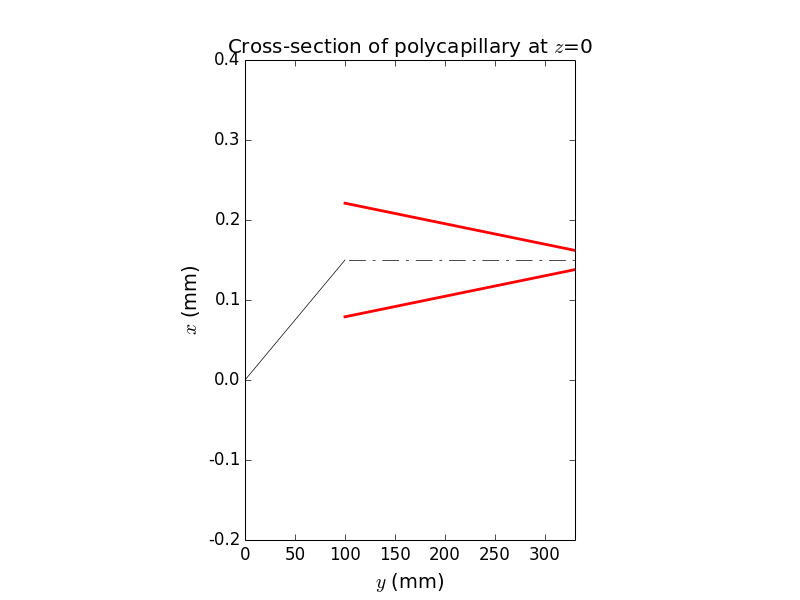
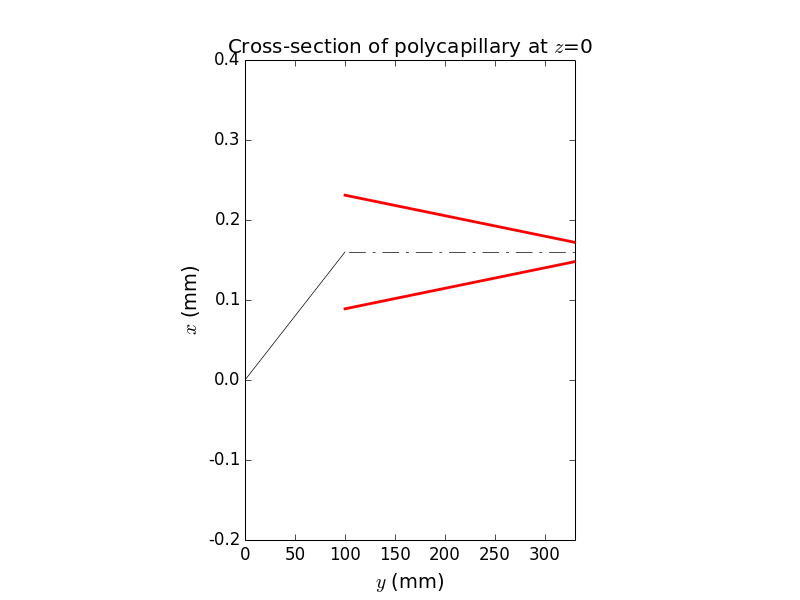
b0 = 0.16

diff --git a/StraightCapillary.py b/StraightCapillary.py
@@ -47,7 +47,7 @@ class StraightCapillary(roe.OE):
         s0 = self.f - self.rSample * np.cos(self.entranceAlpha)
         self.a0 = -np.tan(self.entranceAlpha) / 2 / s0
         self.b0 = 0.5*self.rSample * np.sin(self.entranceAlpha) - self.a0 * s0**2
-        self.b0 = 0.15
+        self.b0 = 0.16
         self.s0 = s0
         self.ar = (self.r0out-self.r0in) / s0
         self.br = self.r0in
